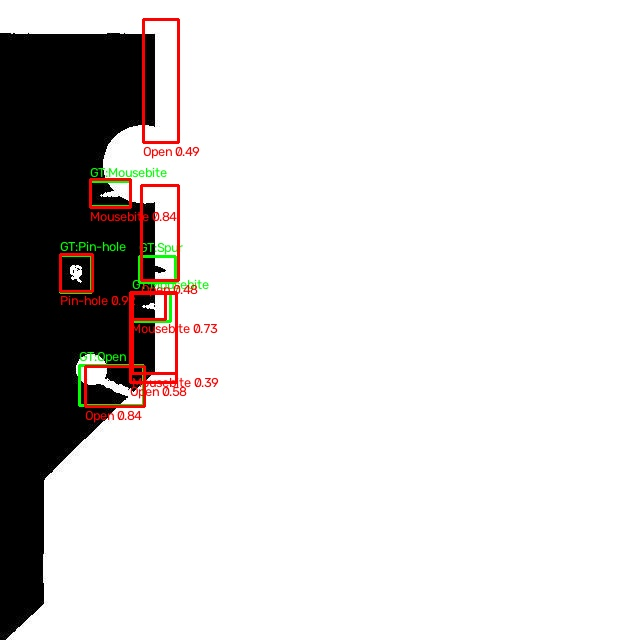
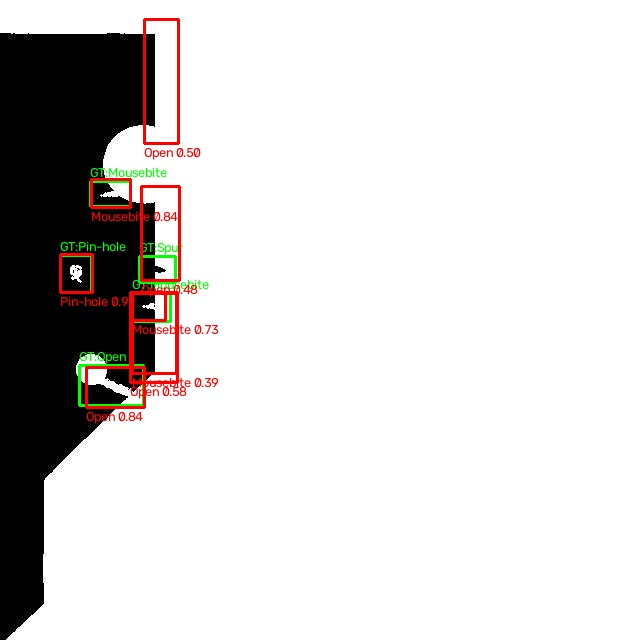
fix(vision): group NMS by defect class and align production ONNX eval pipeline
- Update apply_class_aware_nms to group candidates by defect class and apply NMS independently
- Support class_agnostic flag in YOLOv8PCBDetector (defaults to class-aware False)
- Set default iou_threshold to 0.70 matching YOLOv8 standard evaluation
- Support evaluating production ONNX detector directly in scripts/eval_deeppcb.py
- Re-run official 500-pair evaluation on production ONNX model: achieves 0.9404 F1
- Update top 10 failure case visualizations and evaluation_results.json

diff --git a/scripts/eval_deeppcb.py b/scripts/eval_deeppcb.py
@@ -334,11 +334,26 @@ def make_yolo_detector(weights_path: Path, mode: str = "b", conf: float = 0.25):
     return _infer
 
 
+def make_yolo_onnx_detector(onnx_path: Path, conf: float = 0.25, iou_thresh: float = 0.70):
+    """Directly evaluate the production YOLOv8PCBDetector ONNX Runtime implementation."""
+    from core.vision.yolo_detector import YOLOv8PCBDetector
+
+    detector = YOLOv8PCBDetector(model_path=onnx_path, conf_threshold=conf, iou_threshold=iou_thresh)
+
+    def _infer(temp_img: np.ndarray, test_img: np.ndarray) -> list[Box]:
+        detections, _ = detector.detect(temp_img, test_img)
+        return [Box(d.x1, d.y1, d.x2, d.y2, d.defect_class, d.confidence) for d in detections]
+
+    return _infer
+
+
 def main():
     parser = argparse.ArgumentParser(description="Evaluate DeepPCB Defect Detectors")
     parser.add_argument("--method", choices=["a", "b", "c", "all"], default="a", help="Method to evaluate")
     parser.add_argument("--weights-b", type=Path, default=None, help="Weights path for YOLO Exp B")
     parser.add_argument("--weights-c", type=Path, default=None, help="Weights path for YOLO Exp C")
+    parser.add_argument("--onnx-c", type=Path, default=None, help="Path to production YOLOv8 3-channel ONNX model")
+    parser.add_argument("--iou-thresh", type=float, default=0.70, help="NMS IoU threshold for YOLO (default: 0.70)")
     parser.add_argument("--conf", type=float, default=0.25, help="Confidence threshold for YOLO")
     parser.add_argument("--pcb-root", type=Path, default=Path("data/DeepPCB/PCBData"))
     parser.add_argument("--output-json", type=Path, default=Path("evaluation_results.json"))
@@ -366,14 +381,23 @@ def main():
         res_b = run_evaluation(fn_b, test_manifest, args.pcb_root, visualize_bad_cases_dir=bad_dir)
         all_results["Method_B_YOLOv8n_SingleImage"] = res_b
 
-    if args.method in ["c", "all"] and args.weights_c:
-        print("\n" + "=" * 50)
-        print(f"Evaluating Method C (YOLOv8n 3-Channel Composite: {args.weights_c})...")
-        print("=" * 50)
-        fn_c = make_yolo_detector(args.weights_c, mode="c", conf=args.conf)
-        bad_dir = args.bad_cases_dir / "method_c"
-        res_c = run_evaluation(fn_c, test_manifest, args.pcb_root, visualize_bad_cases_dir=bad_dir)
-        all_results["Method_C_YOLOv8n_3Channel"] = res_c
+    if args.method in ["c", "all"]:
+        if args.onnx_c:
+            print("\n" + "=" * 50)
+            print(f"Evaluating Method C (Production YOLOv8PCBDetector ONNX: {args.onnx_c})...")
+            print("=" * 50)
+            fn_c = make_yolo_onnx_detector(args.onnx_c, conf=args.conf, iou_thresh=args.iou_thresh)
+            bad_dir = args.bad_cases_dir / "method_c"
+            res_c = run_evaluation(fn_c, test_manifest, args.pcb_root, visualize_bad_cases_dir=bad_dir)
+            all_results["Method_C_YOLOv8n_3Channel_ONNX"] = res_c
+        elif args.weights_c:
+            print("\n" + "=" * 50)
+            print(f"Evaluating Method C (YOLOv8n 3-Channel Composite: {args.weights_c})...")
+            print("=" * 50)
+            fn_c = make_yolo_detector(args.weights_c, mode="c", conf=args.conf)
+            bad_dir = args.bad_cases_dir / "method_c"
+            res_c = run_evaluation(fn_c, test_manifest, args.pcb_root, visualize_bad_cases_dir=bad_dir)
+            all_results["Method_C_YOLOv8n_3Channel"] = res_c
 
     # Save summary json
     args.output_json.write_text(json.dumps(all_results, indent=2), encoding="utf-8")

diff --git a/core/vision/yolo_detector.py b/core/vision/yolo_detector.py
@@ -35,7 +35,7 @@ CLASS_MAP: dict[int, DefectClass] = {
 
 def apply_class_aware_nms(
     boxes: list[BoundingBoxDetection],
-    iou_threshold: float = 0.45,
+    iou_threshold: float = 0.70,
 ) -> list[BoundingBoxDetection]:
     """Apply NMS independently per defect class, matching YOLO standard evaluation."""
     if not boxes:
@@ -46,7 +46,11 @@ def apply_class_aware_nms(
         by_class.setdefault(b.defect_class, []).append(b)
     for cls_boxes in by_class.values():
         kept.extend(apply_nms(cls_boxes, iou_threshold=iou_threshold))
-    return kept
+    return sorted(
+        kept,
+        key=lambda b: (b.confidence, b.area_px, -b.x1, -b.y1),
+        reverse=True,
+    )
 
 
 class YOLOv8PCBDetector:
@@ -56,7 +60,8 @@ class YOLOv8PCBDetector:
         self,
         model_path: str | Path = DEFAULT_YOLO_ONNX_PATH,
         conf_threshold: float = 0.25,
-        iou_threshold: float = 0.45,
+        iou_threshold: float = 0.70,
+        class_agnostic: bool = False,
     ) -> None:
         self.model_path = Path(model_path)
         if not self.model_path.is_file():
@@ -67,6 +72,7 @@ class YOLOv8PCBDetector:
 
         self.conf_threshold = conf_threshold
         self.iou_threshold = iou_threshold
+        self.class_agnostic = class_agnostic
 
         sess_options = ort.SessionOptions()
         sess_options.intra_op_num_threads = 2
@@ -163,7 +169,10 @@ class YOLOv8PCBDetector:
                     )
                 )
 
-        filtered = apply_class_aware_nms(candidates, iou_threshold=self.iou_threshold)
+        if self.class_agnostic:
+            filtered = apply_nms(candidates, iou_threshold=self.iou_threshold)
+        else:
+            filtered = apply_class_aware_nms(candidates, iou_threshold=self.iou_threshold)
         latency_ms = round((time.perf_counter() - t_start) * 1000.0, 4)
         return filtered, latency_ms
 
